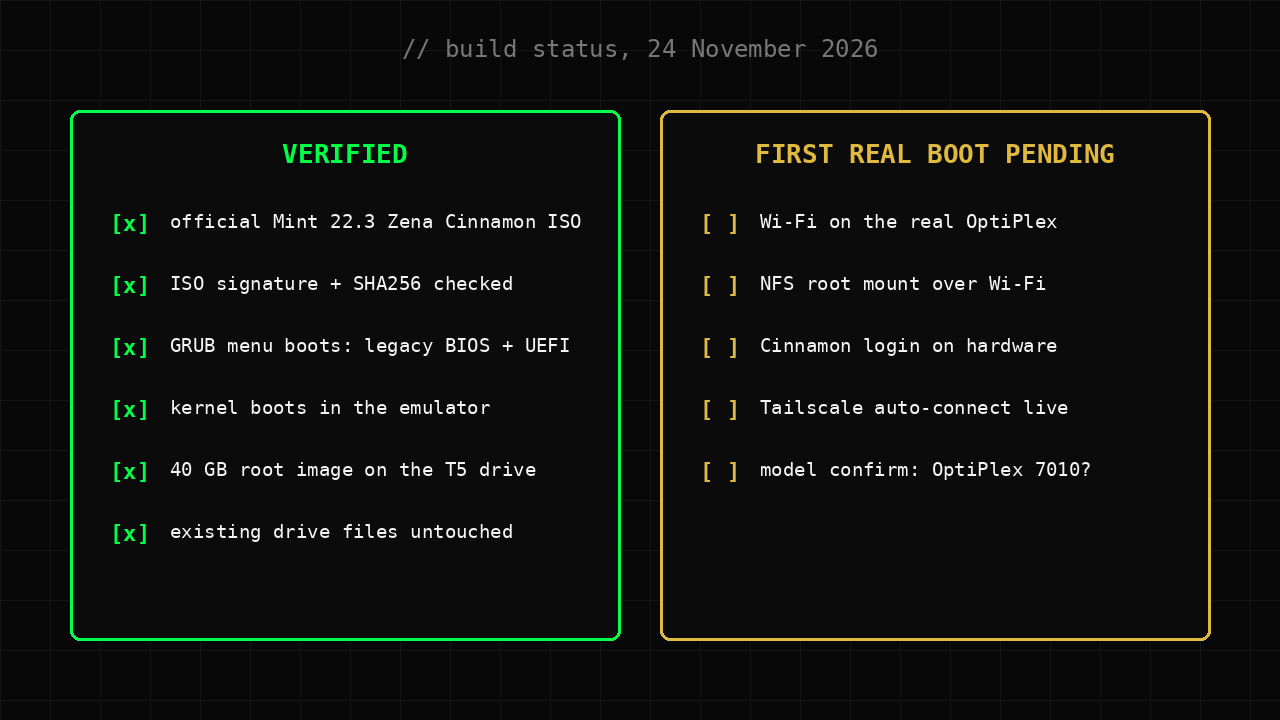
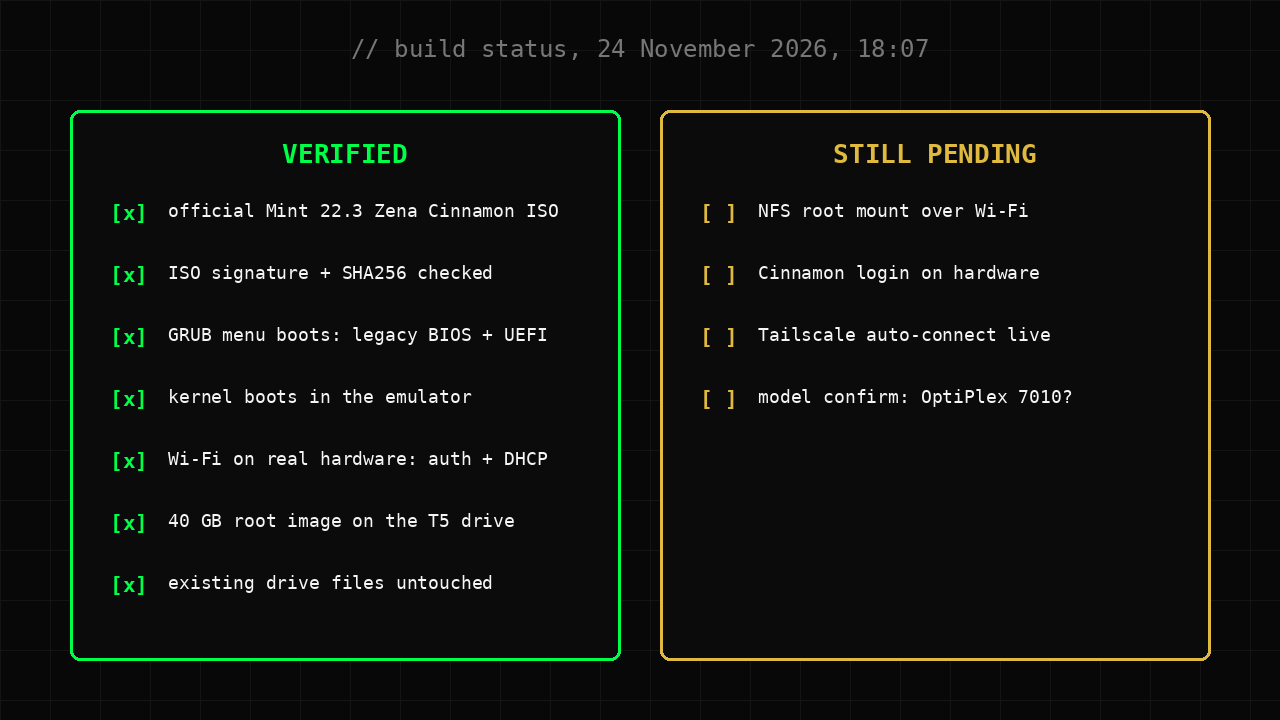
Netboot article: Wi-Fi verified on real OptiPlex (auth+DHCP), desktop login still pending

diff --git a/diskless-mint-netboot.html b/diskless-mint-netboot.html
@@ -3,7 +3,7 @@
 <head>
   <meta charset="utf-8">
   <meta name="viewport" content="width=device-width,initial-scale=1">
-  <meta name="description" content="A diskless Linux Mint Cinnamon desktop that boots over Wi-Fi from my home server: a tiny USB loader, an NFS root on u3 and Tailscale for away from home. Built and emulator-tested, first real boot pending, 0 DKK spent.">
+  <meta name="description" content="A diskless Linux Mint Cinnamon desktop that boots over Wi-Fi from my home server: a tiny USB loader, an NFS root on u3 and Tailscale for away from home. Emulator-tested, Wi-Fi verified on real hardware, desktop login still pending, 0 DKK spent.">
   <meta name="theme-color" content="#08111f">
   <title>Diskless Linux Mint: one desktop that boots from my home network | Andreas Patinas</title>
   <script>document.documentElement.classList.add('js');(function(){var t=localStorage.getItem('portfolio-theme');if(!t){t=window.matchMedia&&window.matchMedia('(prefers-color-scheme: light)').matches?'light':'dark'}document.documentElement.dataset.theme=t})()</script>
@@ -35,7 +35,7 @@ img.wide{width:min(720px,100%);border:1px solid var(--line);border-radius:6px}
 <div class="post-meta"><span data-en="24 November 2026 · 5 min read · linux, netboot, home lab" data-da="24. november 2026 · 5 min læsning · linux, netboot, hjemmelab">24 November 2026 · 5 min read · linux, netboot, home lab</span></div>
 </header>
 <div class="post-body">
-<p><span class="badge" data-en="FIRST REAL BOOT PENDING" data-da="FØRSTE RIGTIGE BOOT AFVENTER">FIRST REAL BOOT PENDING</span> <span data-en="The desktop is built and the boot loader is tested in an emulator. The first boot on the real machine has not happened yet, so nothing here claims a working desktop. Pending parts carry a yellow badge. Total cost so far: 0 DKK." data-da="Desktoppen er bygget, og bootloaderen er testet i en emulator. Det første boot på den rigtige maskine er ikke sket endnu, så intet her hævder en fungerende desktop. Afventende dele er markeret med et gult mærke. Samlet pris indtil videre: 0 kr.">The desktop is built and the boot loader is tested in an emulator. The first boot on the real machine has not happened yet, so nothing here claims a working desktop. Pending parts carry a yellow badge. Total cost so far: 0 DKK.</span></p>
+<p><span class="badge" data-en="DESKTOP LOGIN STILL PENDING" data-da="DESKTOP-LOGIN AFVENTER STADIG">DESKTOP LOGIN STILL PENDING</span> <span data-en="The desktop is built, and the first real boot already reached the network: Wi-Fi on the OptiPlex authenticated, associated and got an address from the router. A loader crash stopped that run before the desktop loaded, so the desktop login is still unproven. Pending parts carry a yellow badge. Total cost so far: 0 DKK." data-da="Desktoppen er bygget, og det første rigtige boot nåede allerede netværket: Wi-Fi på OptiPlex'en godkendte, forbandt og fik en adresse fra routeren. Et loader-crash standsede det forsøg, før desktoppen nåede at loade, så desktop-loginnet er stadig ubevist. Afventende dele er markeret med et gult mærke. Samlet pris indtil videre: 0 kr.">The desktop is built, and the first real boot already reached the network: Wi-Fi on the OptiPlex authenticated, associated and got an address from the router. A loader crash stopped that run before the desktop loaded, so the desktop login is still unproven. Pending parts carry a yellow badge. Total cost so far: 0 DKK.</span></p>
 <h2 data-en="The idea: the PC stays empty" data-da="Ideen: PC'en forbliver tom">The idea: the PC stays empty</h2>
 <p data-en="I have an old Dell OptiPlex standing in another room, and I want a full Linux desktop on it without installing anything on the machine itself. The desktop, the files and the settings live on my home server (u3) on its external drive. Any machine that can reach the network should boot into the same desktop and pick up where I left off. With Tailscale on top, that desktop should also be reachable when I am away from home." data-da="Jeg har en gammel Dell OptiPlex stående i et andet rum, og jeg vil have en fuld Linux-desktop på den uden at installere noget på selve maskinen. Desktoppen, filerne og indstillingerne ligger på min hjemmeserver (u3) på dens eksterne drev. Enhver maskine, der kan nå netværket, skal boote ind i samme desktop og fortsætte, hvor jeg slap. Med Tailscale ovenpå skal den desktop også være tilgængelig, når jeg ikke er hjemme.">I have an old Dell OptiPlex standing in another room, and I want a full Linux desktop on it without installing anything on the machine itself. The desktop, the files and the settings live on my home server (u3) on its external drive. Any machine that can reach the network should boot into the same desktop and pick up where I left off. With Tailscale on top, that desktop should also be reachable when I am away from home.</p>
 <h2 data-en="The method" data-da="Metoden">The method</h2>
@@ -48,6 +48,7 @@ img.wide{width:min(720px,100%);border:1px solid var(--line);border-radius:6px}
 <ul>
 <li data-en="The official Mint 22.3 Zena Cinnamon ISO, with signature and SHA256 checked before anything was installed. The installed root reports exactly that release, kernel 6.14.0-37." data-da="Den officielle Mint 22.3 Zena Cinnamon-ISO med signatur og SHA256 tjekket, før noget blev installeret. Den installerede rod rapporterer netop den udgave, kerne 6.14.0-37.">The official Mint 22.3 Zena Cinnamon ISO, with signature and SHA256 checked before anything was installed. The installed root reports exactly that release, kernel 6.14.0-37.</li>
 <li data-en="The loader reaches its boot menu in an emulator under both legacy BIOS and UEFI, and the kernel starts. That proves the boot path, nothing more." data-da="Loaderen når sin bootmenu i en emulator under både legacy BIOS og UEFI, og kernen starter. Det beviser boot-stien, ikke mere.">The loader reaches its boot menu in an emulator under both legacy BIOS and UEFI, and the kernel starts. That proves the boot path, nothing more.</li>
+<li data-en="Wi-Fi works on the real hardware: on the first live boot the loader authenticated, associated and got an address from the router (DHCP), 24 November 18:07." data-da="Wi-Fi virker på den rigtige hardware: ved det første live-boot godkendte loaderen, forbandt og fik en adresse fra routeren (DHCP), 24. november 18:07.">Wi-Fi works on the real hardware: on the first live boot the loader authenticated, associated and got an address from the router (DHCP), 24 November 18:07.</li>
 <li data-en="The desktop root is a fresh 40 GB ext4 image on the server's external drive. The drive's existing files are untouched and its health checks are clean." data-da="Desktop-roden er et nyt 40 GB ext4-image på serverens eksterne drev. Drevets eksisterende filer er urørte, og dets sundhedstjek er rene.">The desktop root is a fresh 40 GB ext4 image on the server's external drive. The drive's existing files are untouched and its health checks are clean.</li>
 <li data-en="The first loader build contained no passwords. The final build carries the Wi-Fi password so the machine connects by itself, so that stick stays at home." data-da="Det første loader-build indeholdt ingen adgangskoder. Det endelige build rummer Wi-Fi-kodeordet, så maskinen selv forbinder, så den stick bliver hjemme.">The first loader build contained no passwords. The final build carries the Wi-Fi password so the machine connects by itself, so that stick stays at home.</li>
 </ul>
@@ -55,13 +56,13 @@ img.wide{width:min(720px,100%);border:1px solid var(--line);border-radius:6px}
 <h2 data-en="Not proven yet" data-da="Ikke bevist endnu">Not proven yet</h2>
 <p><span data-en="These parts wait for the first real boot:" data-da="Disse dele venter på det første rigtige boot:">These parts wait for the first real boot:</span> <span class="badge" data-en="PENDING" data-da="AFVENTER">PENDING</span></p>
 <ul>
-<li data-en="Wi-Fi association on the real machine, the NFS root mount over Wi-Fi and the Cinnamon login." data-da="Wi-Fi-forbindelsen på den rigtige maskine, NFS-rodmountet over Wi-Fi og Cinnamon-loginnet.">Wi-Fi association on the real machine, the NFS root mount over Wi-Fi and the Cinnamon login.</li>
+<li data-en="The NFS root mount over Wi-Fi and the Cinnamon login. The first live run stopped here: the loader's download tool crashed after the network came up, before the desktop could load. A fixed loader is being written to the stick." data-da="NFS-rodmountet over Wi-Fi og Cinnamon-loginnet. Det første live-forøg stoppede her: loaderens downloadværktøj crashede, efter netværket kom op, før desktoppen nåede at loade. En rettet loader er på vej til sticken.">The NFS root mount over Wi-Fi and the Cinnamon login. The first live run stopped here: the loader's download tool crashed after the network came up, before the desktop could load. A fixed loader is being written to the stick.</li>
 <li data-en="Automatic Tailscale connection. Tailscale is installed and enabled in the desktop and joins my tailnet after a one-time approval." data-da="Automatisk Tailscale-forbindelse. Tailscale er installeret og aktiveret i desktoppen og tilslutter mit tailnet efter en engangsgodkendelse.">Automatic Tailscale connection. Tailscale is installed and enabled in the desktop and joins my tailnet after a one-time approval.</li>
 <li data-en="The exact target model. Everything points to a Dell OptiPlex 7010, but that is unconfirmed." data-da="Den præcise målmodel. Alt peger på en Dell OptiPlex 7010, men det er ubekræftet.">The exact target model. Everything points to a Dell OptiPlex 7010, but that is unconfirmed.</li>
 </ul>
 <h2 data-en="What it costs" data-da="Hvad det koster">What it costs</h2>
 <p data-en="0 DKK so far. The PC is an old office machine, the server and its drive were already here, and the software is free: Linux Mint, the netboot.xyz tooling, NFS and Tailscale's free plan. The only thing left to spend is an hour with a spare USB stick." data-da="0 kr. indtil videre. PC'en er en gammel kontormaskine, serveren og dens drev var her i forvejen, og softwaren er gratis: Linux Mint, netboot.xyz-værktøjet, NFS og Tailscales gratisplan. Det eneste, der mangler at blive brugt, er en time med en ledig USB-stick.">0 DKK so far. The PC is an old office machine, the server and its drive were already here, and the software is free: Linux Mint, the netboot.xyz tooling, NFS and Tailscale's free plan. The only thing left to spend is an hour with a spare USB stick.</p>
-<p data-en="Next step: write the loader to a spare stick, open the OptiPlex boot menu and see what happens. This article gets updated with the real result, whatever it is." data-da="Næste skridt: skrive loaderen til en ledig stick, åbne OptiPlex'ens bootmenu og se, hvad der sker. Denne artikel bliver opdateret med det rigtige resultat, uanset hvad det bliver.">Next step: write the loader to a spare stick, open the OptiPlex boot menu and see what happens. This article gets updated with the real result, whatever it is.</p>
+<p data-en="Next step: the fixed loader on the stick, one more boot, and the Cinnamon login. This article gets updated with the real result, whatever it is." data-da="Næste skridt: den rettede loader på sticken, ét boot mere og Cinnamon-loginnet. Denne artikel bliver opdateret med det rigtige resultat, uanset hvad det bliver.">Next step: the fixed loader on the stick, one more boot, and the Cinnamon login. This article gets updated with the real result, whatever it is.</p>
 <a class="back" href="blog.html" data-en="Back to the blog" data-da="Tilbage til bloggen">Back to the blog</a>
 </div>
 </div>

diff --git a/blog.html b/blog.html
@@ -21,7 +21,7 @@ section{padding:84px 0 96px}.sectionhead{display:grid;grid-template-columns:1fr 
     <section><div class="wrap">
       <div class="sectionhead"><h2 data-en="Blog" data-da="Blog">Blog</h2><p data-en="Build logs and field notes from my own projects: what I tried, what broke and what worked." data-da="Byggelogge og feltnoter fra mine egne projekter: hvad jeg prøvede, hvad der gik i stykker, og hvad der virkede.">Build logs and field notes from my own projects: what I tried, what broke and what worked.</p></div>
       <div class="grid">
-        <article class="card"><span class="tag">FIELD NOTES</span><h3 data-en="Diskless Linux Mint: booting my desktop over the network" data-da="Diskfri Linux Mint: min desktop booter over netværket">Diskless Linux Mint: booting my desktop over the network</h3><div class="meta"><span data-en="24 November 2026 · 5 min read" data-da="24. november 2026 · 5 min læsning">24 November 2026 · 5 min read</span></div><p data-en="An old office PC boots a full Cinnamon desktop from the network: a tiny USB loader brings up Wi-Fi, mounts the persistent root from my home server over NFS and leaves the machine's disk untouched. Built and emulator-tested, the first real boot is pending. 0 DKK spent." data-da="En gammel kontor-PC booter en fuld Cinnamon-desktop fra netværket: en lille USB-loader starter Wi-Fi, mounter den persistente rod fra min hjemmeserver via NFS og lader maskinens disk være urørt. Bygget og emulator-testet, det første rigtige boot afventer. 0 kr. brugt.">An old office PC boots a full Cinnamon desktop from the network: a tiny USB loader brings up Wi-Fi, mounts the persistent root from my home server over NFS and leaves the machine's disk untouched. Built and emulator-tested, the first real boot is pending. 0 DKK spent.</p><div class="links"><a href="diskless-mint-netboot.html" data-en="Read the article" data-da="Læs artiklen">Read the article</a></div></article>
+        <article class="card"><span class="tag">FIELD NOTES</span><h3 data-en="Diskless Linux Mint: booting my desktop over the network" data-da="Diskfri Linux Mint: min desktop booter over netværket">Diskless Linux Mint: booting my desktop over the network</h3><div class="meta"><span data-en="24 November 2026 · 5 min read" data-da="24. november 2026 · 5 min læsning">24 November 2026 · 5 min read</span></div><p data-en="An old office PC boots a full Cinnamon desktop from the network: a tiny USB loader brings up Wi-Fi, mounts the persistent root from my home server over NFS and leaves the machine's disk untouched. Wi-Fi is verified on the real machine; the desktop login is next. 0 DKK spent." data-da="En gammel kontor-PC booter en fuld Cinnamon-desktop fra netværket: en lille USB-loader starter Wi-Fi, mounter den persistente rod fra min hjemmeserver via NFS og lader maskinens disk være urørt. Wi-Fi er verificeret på den rigtige maskine; desktop-loginnet er det næste. 0 kr. brugt.">An old office PC boots a full Cinnamon desktop from the network: a tiny USB loader brings up Wi-Fi, mounts the persistent root from my home server over NFS and leaves the machine's disk untouched. Wi-Fi is verified on the real machine; the desktop login is next. 0 DKK spent.</p><div class="links"><a href="diskless-mint-netboot.html" data-en="Read the article" data-da="Læs artiklen">Read the article</a></div></article>
         <article class="card"><span class="tag">FIELD NOTES</span><h3 data-en="Cloud gaming, game by game: rented GPU vs official services" data-da="Cloud gaming, spil for spil: lejet GPU mod officielle tjenester">Cloud gaming, game by game: rented GPU vs official services</h3><div class="meta"><span data-en="20 November 2026 · 7 min read" data-da="20. november 2026 · 7 min læsning">20 November 2026 · 7 min read</span></div><p data-en="GTA5 story mode runs on a rented EU GPU for about 7.5-14 DKK an evening; Fortnite, Warzone and PUBG refuse it. The full per-game matrix, five free competitive games that do work, and Moonlight on a jailbroken PS4." data-da="GTA5 story mode kører på en lejet EU-GPU for cirka 7,5-14 kr. om aftenen; Fortnite, Warzone og PUBG nægter. Hele oversigten spil for spil, fem gratis competitive-spil der virker, og Moonlight på en jailbreaket PS4.">GTA5 story mode runs on a rented EU GPU for about 7.5-14 DKK an evening; Fortnite, Warzone and PUBG refuse it. The full per-game matrix, five free competitive games that do work, and Moonlight on a jailbroken PS4.</p><div class="links"><a href="cloud-gaming-rented-gpu.html" data-en="Read the article" data-da="Læs artiklen">Read the article</a></div></article>
         <article class="card"><span class="tag">FIELD NOTES</span><h3 data-en="How I make AI documentaries for Past Forward" data-da="Sådan laver jeg AI-dokumentarer til Past Forward">How I make AI documentaries for Past Forward</h3><div class="meta"><span data-en="1 November 2026 · 5 min read" data-da="1. november 2026 · 5 min læsning">1 November 2026 · 5 min read</span></div><p data-en="Chatterbox narration on a free Kaggle GPU, generated stills instead of AI video clips, Remotion assembly and the checks that caught five real errors. The full setup, reproducible with your own accounts." data-da="Chatterbox-oplæsning på en gratis Kaggle-GPU, genererede stills i stedet for AI-videoklip, Remotion-klipning og tjekkene, der fangede fem reelle fejl. Hele opsætningen, som du kan genskabe med dine egne konti.">Chatterbox narration on a free Kaggle GPU, generated stills instead of AI video clips, Remotion assembly and the checks that caught five real errors. The full setup, reproducible with your own accounts.</p><div class="links"><a href="past-forward-ai-documentaries.html" data-en="Read the article" data-da="Læs artiklen">Read the article</a></div></article>
         <article class="card"><span class="tag">FIELD NOTES</span><h3 data-en="Turning my wardrobe into an AI outfit planner" data-da="Sådan blev min garderobe en AI-outfitplanlægger">Turning my wardrobe into an AI outfit planner</h3><div class="meta"><span data-en="30 October 2026 · 4 min read" data-da="30. oktober 2026 · 4 min læsning">30 October 2026 · 4 min read</span></div><p data-en="Photos of my clothes became a numbered, private inventory of 67 items. Now an AI assistant suggests outfits with weather, repair flags and a generated try-on image checked against the originals." data-da="Billeder af mit tøj blev en nummereret, privat oversigt over 67 stykker. Nu foreslår en AI-assistent outfits med vejr, reparationsmarkeringer og et genereret prøvebillede kontrolleret mod originalerne.">Photos of my clothes became a numbered, private inventory of 67 items. Now an AI assistant suggests outfits with weather, repair flags and a generated try-on image checked against the originals.</p><div class="links"><a href="wardrobe-ai-outfit-planner.html" data-en="Read the article" data-da="Læs artiklen">Read the article</a></div></article>

diff --git a/index.html b/index.html
@@ -83,7 +83,7 @@ html[data-theme="light"]{--ink:#16191e;--muted:#4d5762;--bg:#f5f5f2;--line:#d8dc
     <section id="blog"><div class="wrap">
       <div class="sectionhead reveal"><h2 data-en="Blog" data-da="Blog">Blog</h2><p data-en="Build logs and field notes from my own projects: what I tried, what broke and what worked. Drafted with AI assistance." data-da="Byggelogge og feltnoter fra mine egne projekter: hvad jeg prøvede, hvad der gik i stykker, og hvad der virkede. Skrevet i udkast med AI-assistance.">Build logs and field notes from my own projects: what I tried, what broke and what worked. Drafted with AI assistance.</p></div>
       <div class="grid">
-        <article class="card wide reveal"><span class="tag">FIELD NOTES</span><h3><a href="diskless-mint-netboot.html" style="text-decoration:none" data-en="Diskless Linux Mint: booting my desktop over the network" data-da="Diskfri Linux Mint: min desktop booter over netværket">Diskless Linux Mint: booting my desktop over the network</a></h3><p data-en="An old office PC boots a full Cinnamon desktop from the network: a tiny USB loader brings up Wi-Fi, mounts the persistent root from my home server over NFS and leaves the machine's disk untouched. Built and emulator-tested, the first real boot is pending. 0 DKK spent." data-da="En gammel kontor-PC booter en fuld Cinnamon-desktop fra netværket: en lille USB-loader starter Wi-Fi, mounter den persistente rod fra min hjemmeserver via NFS og lader maskinens disk være urørt. Bygget og emulator-testet, det første rigtige boot afventer. 0 kr. brugt.">An old office PC boots a full Cinnamon desktop from the network: a tiny USB loader brings up Wi-Fi, mounts the persistent root from my home server over NFS and leaves the machine's disk untouched. Built and emulator-tested, the first real boot is pending. 0 DKK spent.</p><ul><li><span data-en="24 November 2026 · 5 min read" data-da="24. november 2026 · 5 min læsning">24 November 2026 · 5 min read</span></li><li>Linux · netboot · home lab</li></ul><div class="links"><a href="diskless-mint-netboot.html" data-en="Read the article" data-da="Læs artiklen">Read the article</a></div></article>
+        <article class="card wide reveal"><span class="tag">FIELD NOTES</span><h3><a href="diskless-mint-netboot.html" style="text-decoration:none" data-en="Diskless Linux Mint: booting my desktop over the network" data-da="Diskfri Linux Mint: min desktop booter over netværket">Diskless Linux Mint: booting my desktop over the network</a></h3><p data-en="An old office PC boots a full Cinnamon desktop from the network: a tiny USB loader brings up Wi-Fi, mounts the persistent root from my home server over NFS and leaves the machine's disk untouched. Wi-Fi is verified on the real machine; the desktop login is next. 0 DKK spent." data-da="En gammel kontor-PC booter en fuld Cinnamon-desktop fra netværket: en lille USB-loader starter Wi-Fi, mounter den persistente rod fra min hjemmeserver via NFS og lader maskinens disk være urørt. Wi-Fi er verificeret på den rigtige maskine; desktop-loginnet er det næste. 0 kr. brugt.">An old office PC boots a full Cinnamon desktop from the network: a tiny USB loader brings up Wi-Fi, mounts the persistent root from my home server over NFS and leaves the machine's disk untouched. Wi-Fi is verified on the real machine; the desktop login is next. 0 DKK spent.</p><ul><li><span data-en="24 November 2026 · 5 min read" data-da="24. november 2026 · 5 min læsning">24 November 2026 · 5 min read</span></li><li>Linux · netboot · home lab</li></ul><div class="links"><a href="diskless-mint-netboot.html" data-en="Read the article" data-da="Læs artiklen">Read the article</a></div></article>
         <article class="card wide reveal"><span class="tag">FIELD NOTES</span><h3><a href="cloud-gaming-rented-gpu.html" style="text-decoration:none" data-en="Cloud gaming, game by game: rented GPU vs official services" data-da="Cloud gaming, spil for spil: lejet GPU mod officielle tjenester">Cloud gaming, game by game: rented GPU vs official services</a></h3><p data-en="GTA5 story mode runs on a rented EU GPU for about 7.5-14 DKK an evening; Fortnite, Warzone and PUBG refuse it. The per-game matrix, five free competitive games that do work, and Moonlight on a jailbroken PS4." data-da="GTA5 story mode kører på en lejet EU-GPU for cirka 7,5-14 kr. om aftenen; Fortnite, Warzone og PUBG nægter. Oversigten spil for spil, fem gratis competitive-spil der virker, og Moonlight på en jailbreaket PS4.">GTA5 story mode runs on a rented EU GPU for about 7.5-14 DKK an evening; Fortnite, Warzone and PUBG refuse it. The per-game matrix, five free competitive games that do work, and Moonlight on a jailbroken PS4.</p><ul><li><span data-en="20 November 2026 · 7 min read" data-da="20. november 2026 · 7 min læsning">20 November 2026 · 7 min read</span></li><li>Cloud gaming · GPU rental · research</li></ul><div class="links"><a href="cloud-gaming-rented-gpu.html" data-en="Read the article" data-da="Læs artiklen">Read the article</a></div></article>
       </div>
       <div class="links blog-all reveal"><a href="blog.html" data-en="See all articles" data-da="Se alle artikler">See all articles</a></div>
